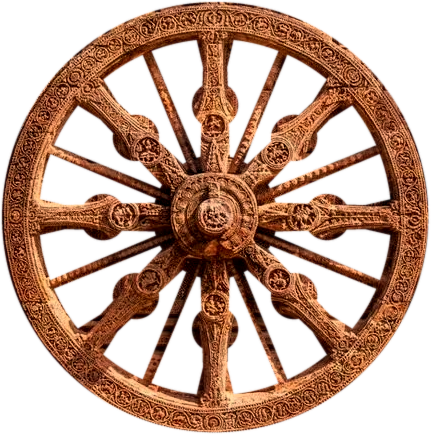
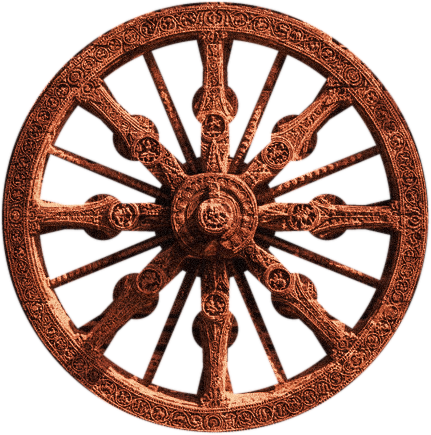
home page files added

diff --git a/index.html b/index.html
@@ -126,16 +126,26 @@
   @keyframes door{from{opacity:.35}to{opacity:.9}}
   @keyframes beam{from{opacity:.15;transform:scaleY(.7)}to{opacity:.55;transform:scaleY(1)}}
   @media (prefers-reduced-motion:reduce){.hg-pulse path,.hg-core,.hg-door,.hg-beam{animation:none}}
+  /* living background: mouse parallax (background moves less than the wheel = depth) */
+  .hero{--mx:0;--my:0}
+  .hero-bg,.hero-glow{scale:1.035;translate:calc(var(--mx) * -7px) calc(var(--my) * -4px);transition:translate 1.2s cubic-bezier(.2,.7,.2,1)}
+  .chakra{translate:calc(var(--mx) * 9px) calc(var(--my) * 5px);transition:translate 1.2s cubic-bezier(.2,.7,.2,1)}
+  .embers{position:absolute;inset:0;width:100%;height:100%;pointer-events:none;mix-blend-mode:screen}
+  .hg-sun{transform-box:fill-box;transform-origin:center;animation:sunBreath 6s ease-in-out infinite alternate}
+  @keyframes sunBreath{from{opacity:.55;transform:scale(.94)}to{opacity:1;transform:scale(1.06)}}
+  .hg-rays{transform-box:view-box;transform-origin:654px 346px;animation:rays 90s linear infinite}
+  @keyframes rays{to{transform:rotate(360deg)}}
+  @media (prefers-reduced-motion:reduce){.hg-sun,.hg-rays{animation:none}.embers{display:none}}
   /* 3D Konark chakra (replaces the painted wheel, bottom-left) */
   .chakra{position:absolute;left:calc(63*var(--u));top:calc(211*var(--u));width:calc(204*var(--u));aspect-ratio:1;perspective:calc(650*var(--u));pointer-events:none}
   .chakra::before{content:"";position:absolute;inset:3%;border-radius:50%;background:radial-gradient(circle,#0c0807 0 60%,rgba(12,8,7,.88) 68%,rgba(12,8,7,0) 75%)}
   .chakra::after{content:"";position:absolute;inset:10%;border-radius:50%;box-shadow:0 0 calc(40*var(--u)) calc(6*var(--u)) rgba(226,65,42,.28);animation:chakraGlow 4.4s ease-in-out infinite alternate}
   .chakra-tilt,.chakra-spin{position:absolute;inset:0;transform-style:preserve-3d}
-  .chakra-tilt{animation:chakraSway 9s ease-in-out infinite alternate}
-  .chakra-spin{animation:chakraTurn 28s linear infinite}
+  .chakra-tilt{animation:chakraSway 14s ease-in-out infinite alternate}
+  .chakra-spin{animation:chakraTurn 45s linear infinite}
   .chakra img{position:absolute;inset:0;width:100%;height:100%;backface-visibility:visible}
   .chakra img.face{filter:drop-shadow(0 0 calc(5*var(--u)) rgba(255,120,80,.35))}
-  @keyframes chakraSway{from{transform:rotateY(-24deg) rotateX(8deg)}to{transform:rotateY(24deg) rotateX(-6deg)}}
+  @keyframes chakraSway{from{transform:rotateY(-11deg) rotateX(4deg)}to{transform:rotateY(11deg) rotateX(-3deg)}}
   @keyframes chakraTurn{to{transform:rotate(360deg)}}
   @keyframes chakraGlow{from{opacity:.4}to{opacity:1}}
   @media (prefers-reduced-motion:reduce){.chakra-tilt,.chakra-spin,.chakra::after{animation:none}}
@@ -276,11 +286,23 @@
           <stop offset=".6" stop-color="#e2412a" stop-opacity=".35"/>
           <stop offset="1" stop-color="#e2412a" stop-opacity="0"/>
         </radialGradient>
+        <radialGradient id="hgSun">
+          <stop offset=".45" stop-color="#ff9a6a" stop-opacity=".55"/>
+          <stop offset=".62" stop-color="#ff7a4f" stop-opacity=".22"/>
+          <stop offset="1" stop-color="#e2412a" stop-opacity="0"/>
+        </radialGradient>
+        <radialGradient id="hgRay" cx="654" cy="346" r="520" gradientUnits="userSpaceOnUse">
+          <stop offset="0" stop-color="#ffb48a" stop-opacity=".28"/>
+          <stop offset="1" stop-color="#ffb48a" stop-opacity="0"/>
+        </radialGradient>
+        <clipPath id="hgSky"><rect x="0" y="0" width="1292" height="362"/></clipPath>
         <linearGradient id="hgBeam" x1="0" y1="1" x2="0" y2="0">
           <stop offset="0" stop-color="#ffd2b0"/>
           <stop offset="1" stop-color="#ff8a62" stop-opacity="0"/>
         </linearGradient>
       </defs>
+      <g clip-path="url(#hgSky)"><g class="hg-rays" id="hgRays" fill="url(#hgRay)"></g></g>
+      <circle class="hg-sun" cx="654" cy="346" r="120" fill="url(#hgSun)"/>
       <g class="hg-halo"></g>
       <g class="hg-base"></g>
       <g class="hg-pulse" filter="url(#hgBlur)"></g>
@@ -288,6 +310,7 @@
       <rect class="hg-door" x="641" y="345" width="24" height="25" rx="10" fill="#ffb38a"/>
       <ellipse class="hg-core" cx="653" cy="368" rx="78" ry="24" fill="url(#hgCore)"/>
     </svg>
+    <canvas class="embers" id="embers" aria-hidden="true"></canvas>
     <div class="chakra" aria-hidden="true"><div class="chakra-tilt"><div class="chakra-spin" id="chakraSpin"></div></div></div>
     <div class="side l fade d2">TWO DAYS<br>REAL PROBLEMS<br>BIGGER IDEAS</div>
     <div class="side r fade d2">ENGINEER<br>BUILD<br>EXHIBIT<br>BELONG</div>
@@ -416,6 +439,58 @@
       pulse.style.setProperty('--dur', (len / 130 + 1.2).toFixed(2) + 's');
       pulse.style.setProperty('--delay', (-rnd() * 8).toFixed(2) + 's');
     });
+  })();
+
+  // ---------- Hero: living background ----------
+  (function () {
+    const hero = document.querySelector('.hero');
+    const still = matchMedia('(prefers-reduced-motion: reduce)').matches;
+
+    // light rays fanning out from the sun
+    const rays = document.getElementById('hgRays'), NS = 'http://www.w3.org/2000/svg';
+    for (let i = 0; i < 18; i++) {
+      const a = i / 18 * Math.PI * 2, w = .045 + (i % 3) * .02, L = 760;
+      const p = document.createElementNS(NS, 'path');
+      p.setAttribute('d', `M654 346 L${654 + Math.cos(a - w) * L} ${346 + Math.sin(a - w) * L} L${654 + Math.cos(a + w) * L} ${346 + Math.sin(a + w) * L}Z`);
+      rays.appendChild(p);
+    }
+    if (still) return;
+
+    // mouse parallax
+    hero.addEventListener('pointermove', e => {
+      const r = hero.getBoundingClientRect();
+      hero.style.setProperty('--mx', ((e.clientX - r.left) / r.width * 2 - 1).toFixed(3));
+      hero.style.setProperty('--my', ((e.clientY - r.top) / r.height * 2 - 1).toFixed(3));
+    });
+    hero.addEventListener('pointerleave', () => { hero.style.setProperty('--mx', 0); hero.style.setProperty('--my', 0); });
+
+    // embers drifting up from the road
+    const cv = document.getElementById('embers'), ctx = cv.getContext('2d');
+    let W, H, dpr, running = true;
+    const size = () => { dpr = Math.min(devicePixelRatio || 1, 2); W = cv.width = hero.clientWidth * dpr; H = cv.height = hero.clientHeight * dpr; };
+    size(); addEventListener('resize', size);
+    const spawn = (anyY) => ({
+      x: Math.random() * W, y: anyY ? Math.random() * H : H * (.82 + Math.random() * .2),
+      r: (.6 + Math.random() * 1.6) * dpr, vy: (.12 + Math.random() * .35) * dpr, sway: Math.random() * 6.28,
+      life: 0, max: 380 + Math.random() * 520, hue: 14 + Math.random() * 22
+    });
+    const P = Array.from({ length: 46 }, () => spawn(true));
+    (function tick() {
+      if (running) {
+        ctx.clearRect(0, 0, W, H);
+        for (const p of P) {
+          p.life++; p.y -= p.vy; p.sway += .012; p.x += Math.sin(p.sway) * .25 * dpr;
+          const t = p.life / p.max, a = Math.sin(Math.min(t, 1) * Math.PI) * (.55 + .45 * Math.sin(p.life * .09));
+          if (t >= 1 || p.y < -10) Object.assign(p, spawn(false));
+          const g = ctx.createRadialGradient(p.x, p.y, 0, p.x, p.y, p.r * 3);
+          g.addColorStop(0, `hsla(${p.hue},100%,70%,${a})`); g.addColorStop(1, `hsla(${p.hue},100%,55%,0)`);
+          ctx.fillStyle = g; ctx.beginPath(); ctx.arc(p.x, p.y, p.r * 3, 0, 6.283); ctx.fill();
+        }
+      }
+      requestAnimationFrame(tick);
+    })();
+    // pause when the hero is off screen
+    new IntersectionObserver(([en]) => { running = en.isIntersecting; }).observe(hero);
   })();
 
   // ---------- Hero: 3D Konark chakra ----------

diff --git a/README.md b/README.md
@@ -14,7 +14,12 @@ It's a static site made of one HTML file and a folder of images. It has no build
   - A full hand-drawn mandala (with a glowing red core) blooms out of that point and turns slowly.
   - The event name powers on with a flicker, then the screen opens like doors onto the site.
 - **Hero banner** with the original artwork: temple pillars, campus gate, sunset and the red circuit road.
-- **3D Konark chakra** in the bottom-left of the hero: a cut-out photo of the Konark Sun Temple wheel, stacked in layers so it has real thickness, turning slowly on its axle and tilting so the carved edge shows. Hidden on phones. Change `LAYERS` in the `/* Hero: 3D Konark chakra */` script for a thicker or thinner wheel, and `chakraTurn` / `chakraSway` in the CSS for its speed.
+- **Living background** on the hero, so the scene never feels static:
+  - gentle **mouse parallax**: the background drifts one way and the wheel the other, giving depth;
+  - glowing **embers** drifting up from the road (a `<canvas>`; it pauses when the hero is scrolled out of view);
+  - the **sun breathes** with a soft halo, and faint **light rays** turn slowly behind it.
+  All of it switches off for visitors with *Reduce motion* turned on. Change the number of embers in `Array.from({ length: 46 }, …)`.
+- **3D Konark chakra** in the bottom-left of the hero, recoloured in the illustration's own palette so it blends into the painting: a cut-out photo of the Konark Sun Temple wheel, stacked in layers so it has real thickness, turning slowly on its axle and tilting so the carved edge shows. Hidden on phones. Change `LAYERS` in the `/* Hero: 3D Konark chakra */` script for a thicker or thinner wheel, and `chakraTurn` (45 s per turn) / `chakraSway` (14 s tilt) in the CSS for its speed.
 - **Glowing circuit lines** on the hero: light pulses travel along the road lines and side circuit traces, all converging on the centre of the campus gate, which glows and pulses. The lines are built by script in the `/* Hero: glowing lines converging on the gate */` block. Change `VX, VY` to move the meeting point, or edit the trace list to add or remove lines.
 - **"What is KAOS?"** section with the mandala, circuit and temple artwork.
 - **Event cards** for Day 1 (Engineering Challenge), Day 2 (Project Expo) and Prizes (₹20,000).
